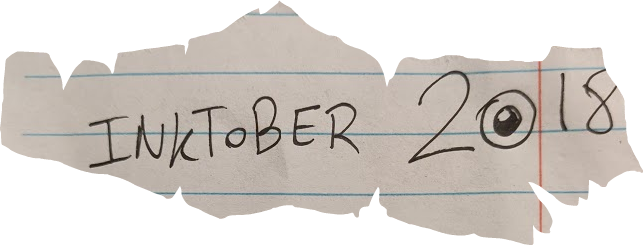
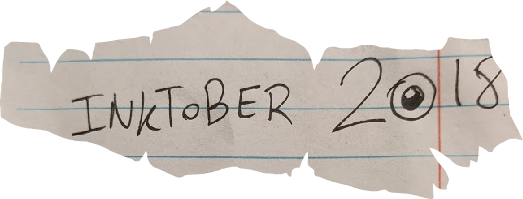
fixing inktober links

diff --git a/src/components/PageLink.js b/src/components/PageLink.js
@@ -5,12 +5,15 @@ const style = {
     pageLink: {
         cursor: 'pointer',
         margin: 20,
+    },
+    linkImage: {
+        maxWidth: 600,
     }
 };
 
 class PageLink extends Component {
     render() {
-        const image = (<img src={this.props.image} alt={this.props.title}/>);
+        const image = (<img style={style.linkImage} src={this.props.image} alt={this.props.title}/>);
         return (            
             <div style={style.pageLink}>
                 {this.props.link && (<Link to={this.props.link}>{image}</Link>)}

diff --git a/src/components/LinkFrame.js b/src/components/LinkFrame.js
@@ -21,7 +21,7 @@ class LinkFrame extends Component {
     render() {
         return (
             <div style={style.linkFrame}>
-                <div>
+                <div style={style.linkImage}>
                     <PageLink
                         key={this.props.title}
                         title={this.props.title}
